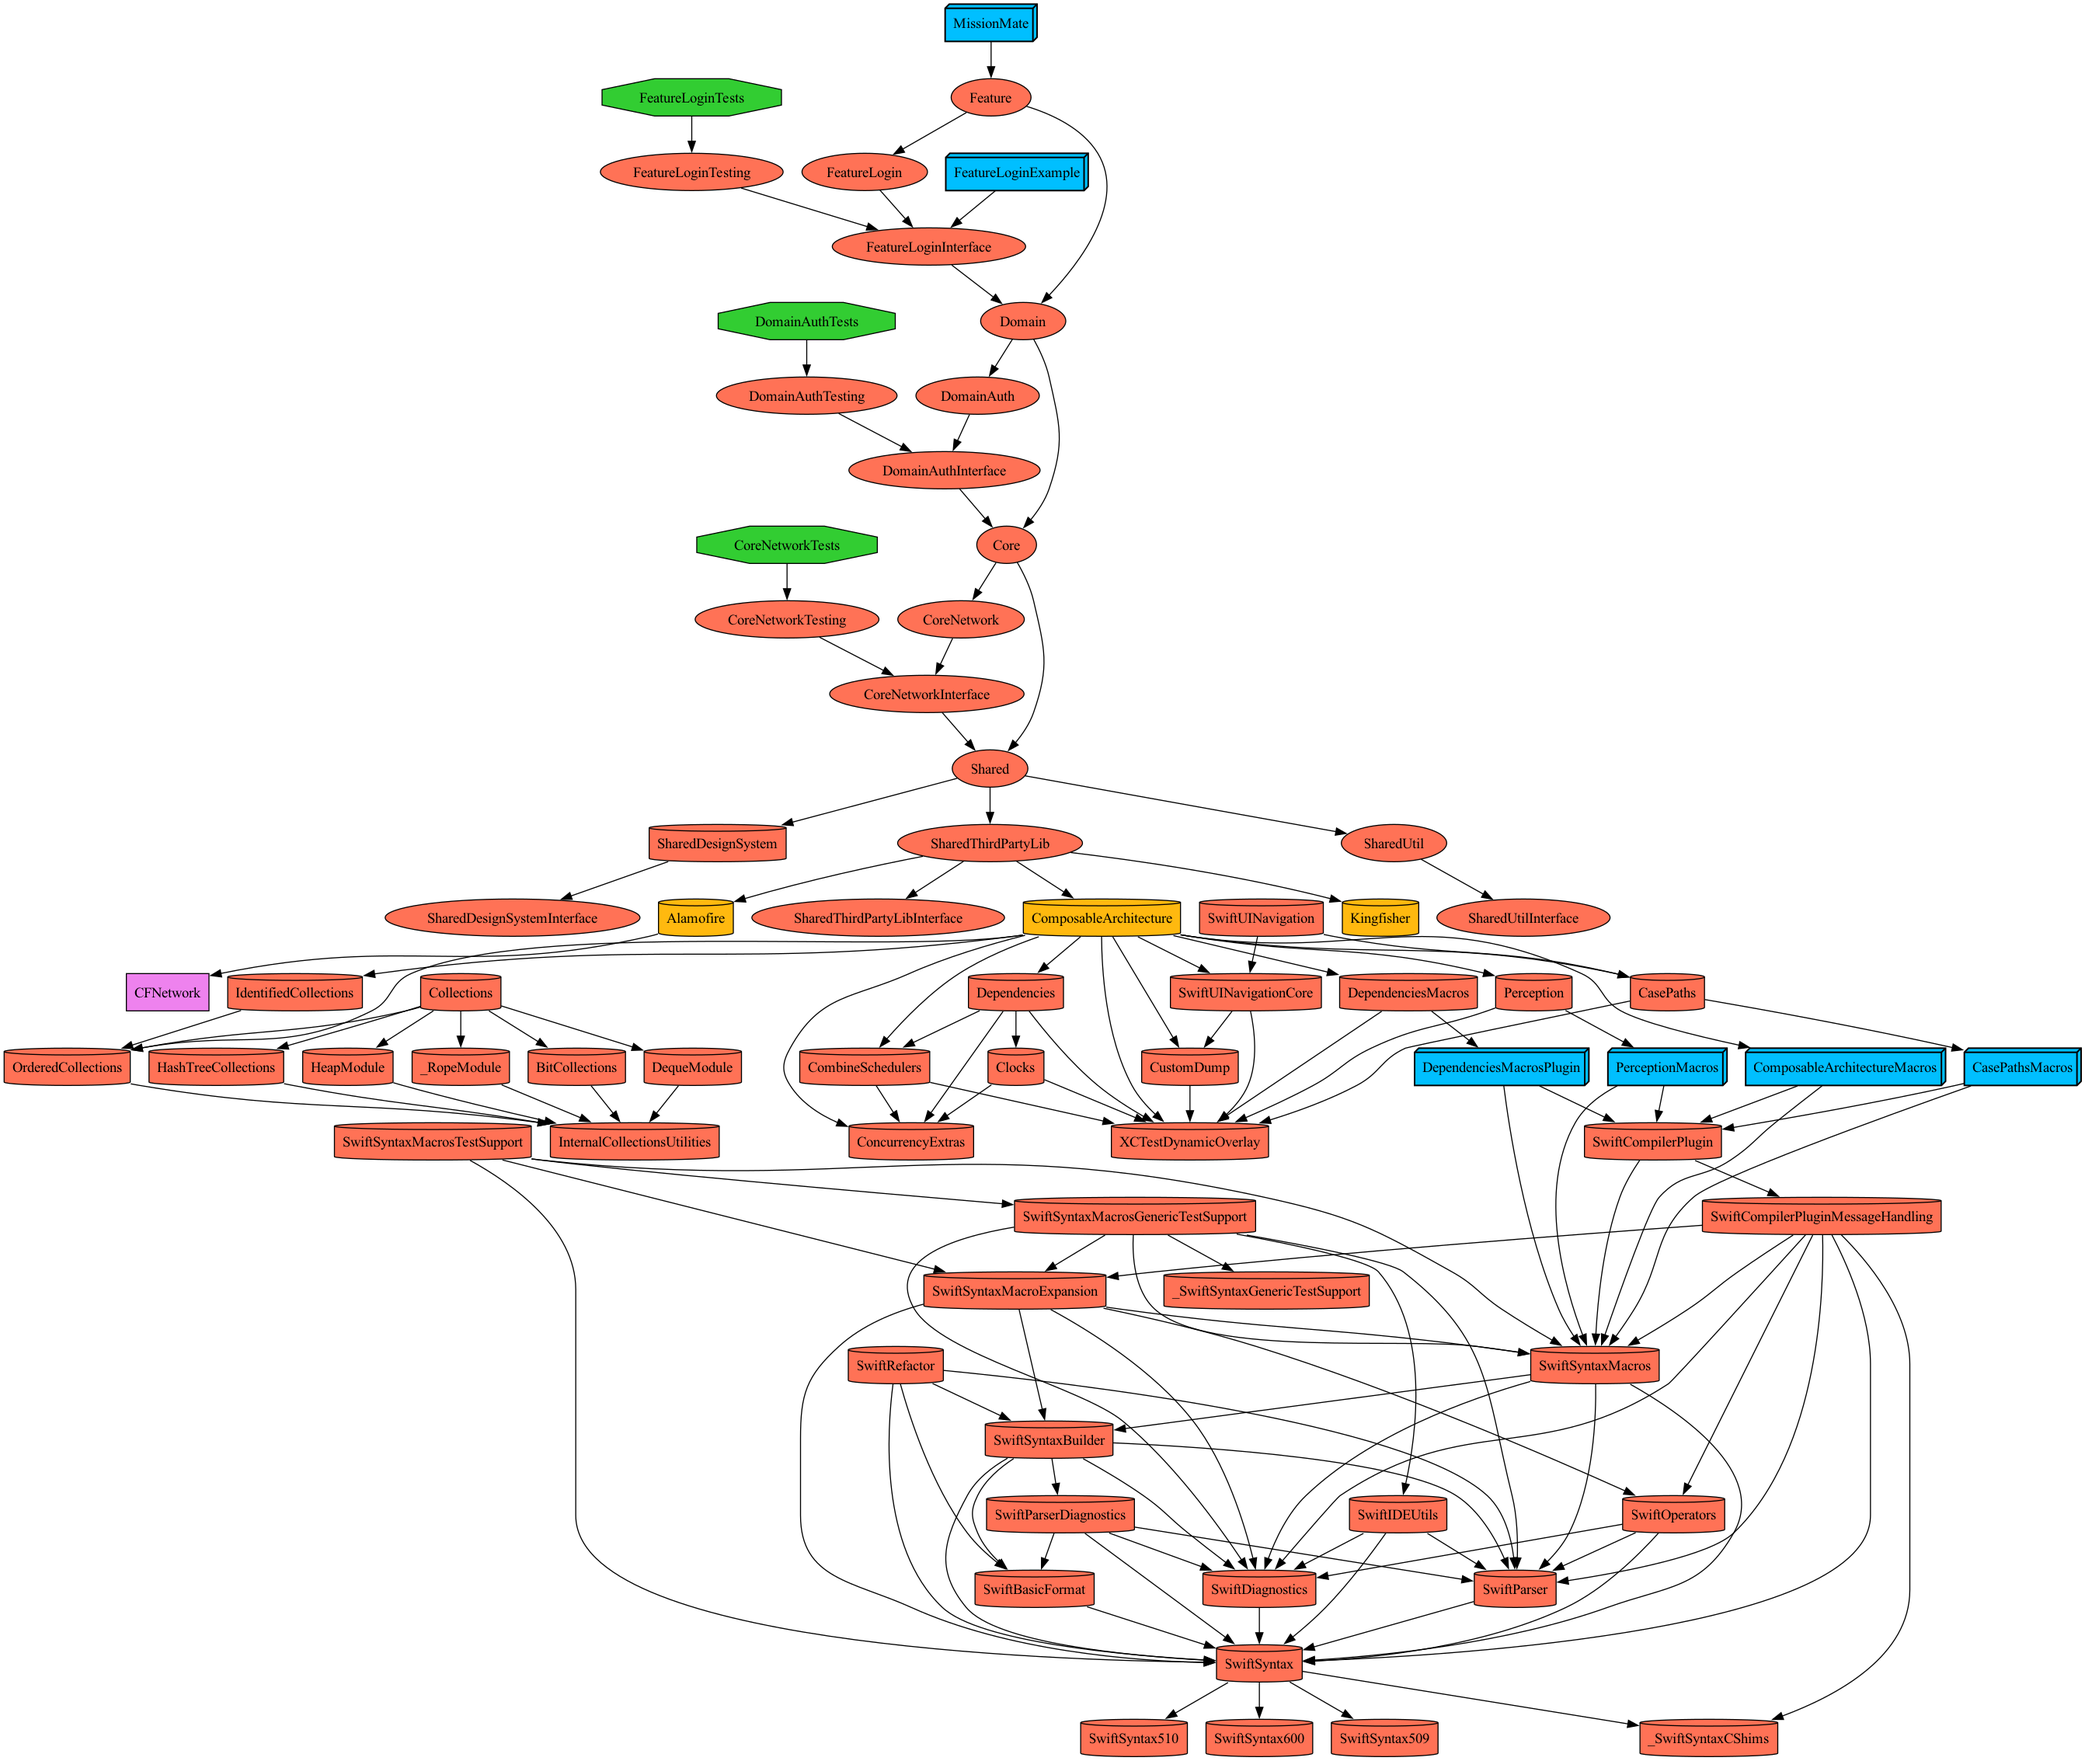
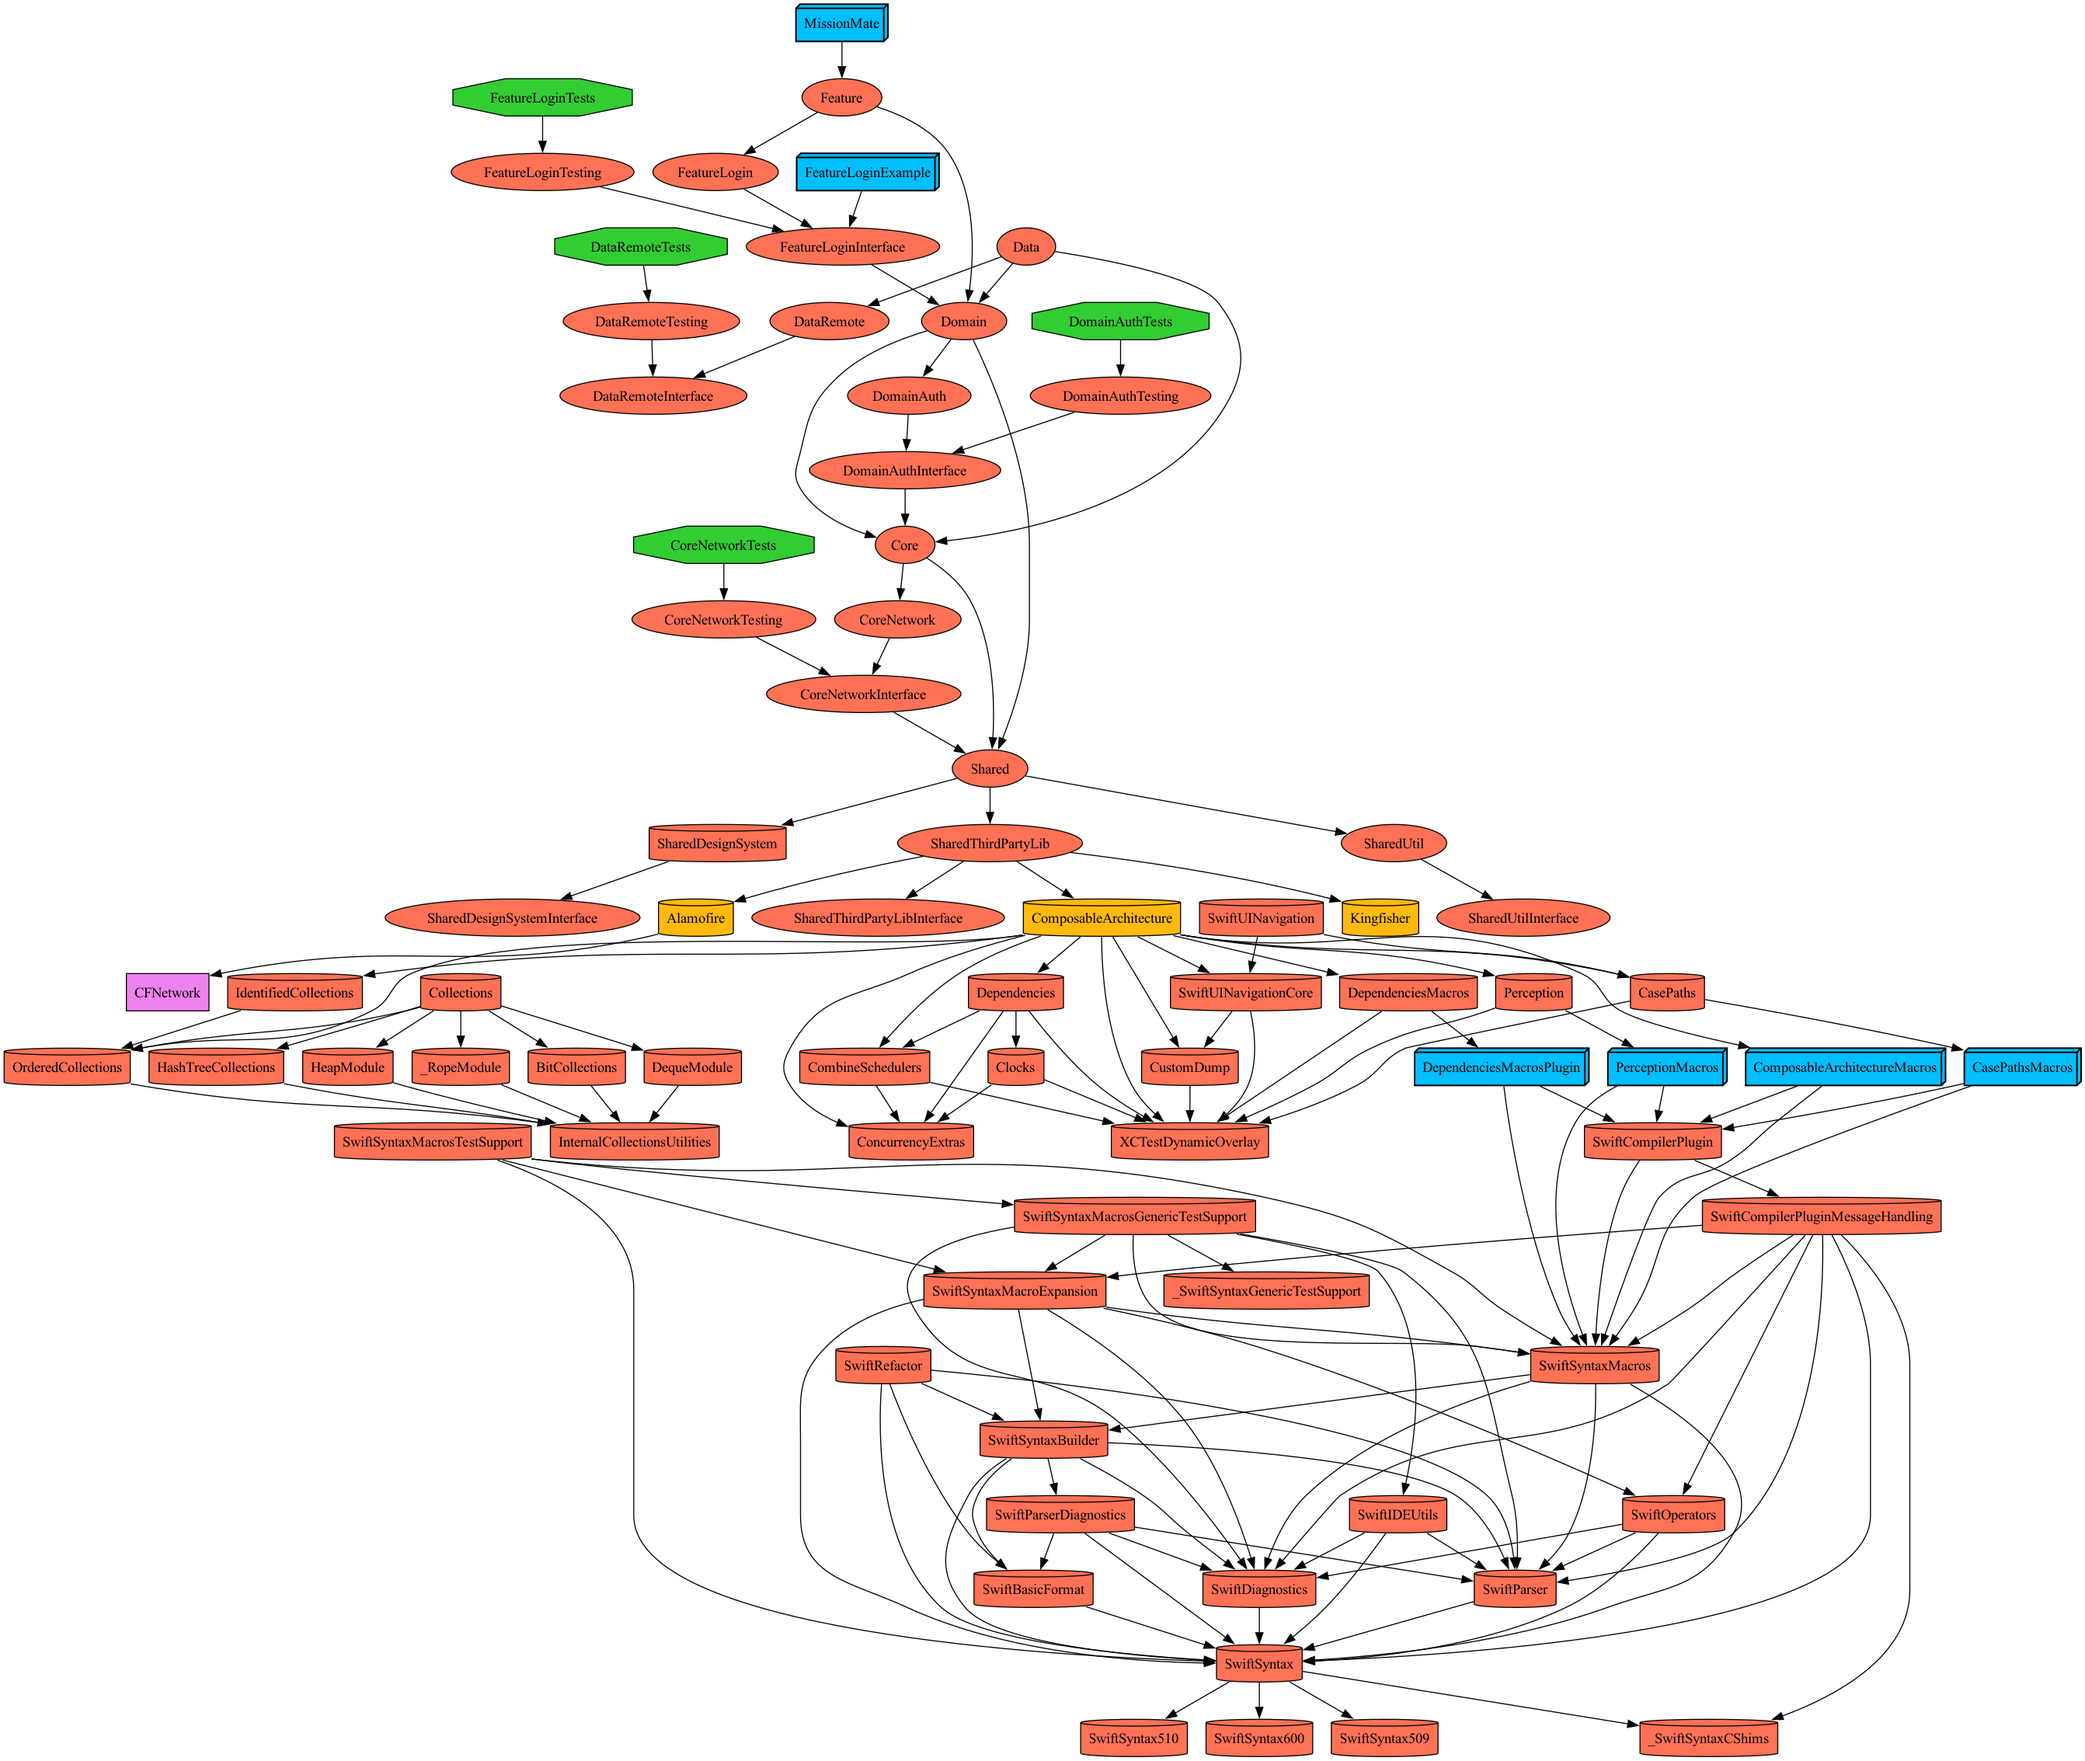
feat: Data 생성

Changed region(s): [[0.2165, 0.0, 0.5876, 0.4323], [0.402, 0.7411, 0.5876, 0.8337], [0.4329, 0.8955, 0.5257, 0.9572]]

diff --git a/Tuist/ProjectDescriptionHelpers/Target+Templates.swift b/Tuist/ProjectDescriptionHelpers/Target+Templates.swift
@@ -282,3 +282,46 @@ public extension Target {
         return make(factory: newFactory)
     }
 }
+
+// MARK: Target + Data
+
+public extension Target {
+    static func data(factory: TargetFactory) -> Self {
+        var newFactory = factory
+        newFactory.name = ModulePath.Data.name
+        
+        return make(factory: newFactory)
+    }
+    
+    static func data(implements module: ModulePath.Data, factory: TargetFactory) -> Self {
+        var newFactory = factory
+        newFactory.name = ModulePath.Data.name + module.rawValue
+        
+        return make(factory: newFactory)
+    }
+    
+    static func data(tests module: ModulePath.Data, factory: TargetFactory) -> Self {
+        var newFactory = factory
+        newFactory.name = ModulePath.Data.name + module.rawValue + "Tests"
+        newFactory.product = .unitTests
+        newFactory.sources = .tests
+        
+        return make(factory: newFactory)
+    }
+    
+    static func data(testing module: ModulePath.Data, factory: TargetFactory) -> Self {
+        var newFactory = factory
+        newFactory.name = ModulePath.Data.name + module.rawValue + "Testing"
+        newFactory.sources = .testing
+        
+        return make(factory: newFactory)
+    }
+    
+    static func data(interface module: ModulePath.Data, factory: TargetFactory) -> Self {
+        var newFactory = factory
+        newFactory.name = ModulePath.Data.name + module.rawValue + "Interface"
+        newFactory.sources = .interface
+        
+        return make(factory: newFactory)
+    }
+}

diff --git a/Plugins/DependencyPlugin/ProjectDescriptionHelpers/TargetDependency+Modules.swift b/Plugins/DependencyPlugin/ProjectDescriptionHelpers/TargetDependency+Modules.swift
@@ -101,3 +101,28 @@ public extension TargetDependency {
         return .project(target: ModulePath.Shared.name + module.rawValue + "Interface", path: .shared(implementation: module))
     }
 }
+
+// MARK: TargetDependency + Data
+
+public extension TargetDependency {
+    static var data: Self {
+        return .project(target: ModulePath.Data.name, path: .data)
+    }
+    
+    static func data(implements module: ModulePath.Data) -> Self {
+        return .project(target: ModulePath.Data.name + module.rawValue, path: .data(implementation: module))
+    }
+    
+    static func data(interface module: ModulePath.Data) -> Self {
+        return .project(target: ModulePath.Data.name + module.rawValue + "Interface", path: .data(implementation: module))
+    }
+    
+    static func data(tests module: ModulePath.Data) -> Self {
+        return .project(target: ModulePath.Data.name + module.rawValue + "Tests", path: .data(implementation: module))
+    }
+    
+    static func data(testing module: ModulePath.Data) -> Self {
+        return .project(target: ModulePath.Data.name + module.rawValue + "Testing", path: .data(implementation: module))
+    }
+}
+

diff --git a/Projects/Data/Remote/Project.swift b/Projects/Data/Remote/Project.swift
@@ -1,0 +1,39 @@
+import ProjectDescription
+import ProjectDescriptionHelpers
+import DependencyPlugin
+
+let project = Project.makeModule(
+    name: ModulePath.Data.name+ModulePath.Data.Remote.rawValue,
+    targets: [    
+        .data(
+            interface: .Remote,
+            factory: .init()
+        ),
+        .data(
+            implements: .Remote,
+            factory: .init(
+                dependencies: [
+                    .data(interface: .Remote)
+                ]
+            )
+        ),
+    
+        .data(
+            testing: .Remote,
+            factory: .init(
+                dependencies: [
+                    .data(interface: .Remote)
+                ]
+            )
+        ),
+        .data(
+            tests: .Remote,
+            factory: .init(
+                dependencies: [
+                    .data(testing: .Remote)
+                ]
+            )
+        ),
+
+    ]
+)

diff --git a/Scripts/GenerateModule.swift b/Scripts/GenerateModule.swift
@@ -6,6 +6,7 @@ enum LayerType: String {
     case domain = "Domain"
     case core = "Core"
     case shared = "Shared"
+    case data = "Data"
 }
 
 public enum MicroTargetType: String, CaseIterable {
@@ -191,7 +192,7 @@ func updateFileContent(
 
 // MARK: - Starting point
 
-print("Enter layer name\n(Feature | Domain | Core | Shared)", terminator: " : ")
+print("Enter layer name\n(Feature | Domain | Core | Shared | Data)", terminator: " : ")
 let layerInput = readLine()
 guard let layerInput, !layerInput.isEmpty, let layerUnwrapping = LayerType(rawValue: layerInput) else {
     print("Layer is empty or invalid")

diff --git a/Plugins/DependencyPlugin/ProjectDescriptionHelpers/Path+Modules.swift b/Plugins/DependencyPlugin/ProjectDescriptionHelpers/Path+Modules.swift
@@ -56,3 +56,16 @@ public extension ProjectDescription.Path {
         return .relativeToRoot("Projects/\(ModulePath.Shared.name)/\(module.rawValue)")
     }
 }
+
+
+// MARK: ProjectDescription.Path + Data
+
+public extension ProjectDescription.Path {
+    static var data: Self {
+        return .relativeToRoot("Projects/\(ModulePath.Data.name)")
+    }
+    
+    static func data(implementation module: ModulePath.Data) -> Self {
+        return .relativeToRoot("Projects/\(ModulePath.Data.name)/\(module.rawValue)")
+    }
+}

diff --git a/Projects/Data/Project.swift b/Projects/Data/Project.swift
@@ -1,0 +1,28 @@
+//
+//  Project.swift
+//  AppManifests
+//
+//  Created by Haeseok Lee on 7/27/24.
+//
+
+import ProjectDescription
+import ProjectDescriptionHelpers
+import DependencyPlugin
+
+let targets: [Target] = [
+    .data(
+        factory: .init(
+            dependencies: [
+                .data(implements: .Remote),
+                .domain,
+                .core,
+            ]
+        )
+    )
+]
+
+
+let project: Project = .makeModule(
+    name: "Data",
+    targets: targets
+)

diff --git a/Plugins/DependencyPlugin/ProjectDescriptionHelpers/Modules.swift b/Plugins/DependencyPlugin/ProjectDescriptionHelpers/Modules.swift
@@ -6,6 +6,7 @@ public enum ModulePath {
     case domain(Domain)
     case core(Core)
     case shared(Shared)
+    case data(Data)
 }
 
 // MARK: AppModule
@@ -55,5 +56,15 @@ public extension ModulePath {
         case ThirdPartyLib
         
         public static let name: String = "Shared"
+    }
+}
+
+// MARK: DataModule
+
+public extension ModulePath {
+    enum Data: String, CaseIterable {
+        case Remote
+        
+        public static let name: String = "Data"
     }
 }

diff --git a/Projects/Data/Remote/Tests/Sources/RemoteTest.swift b/Projects/Data/Remote/Tests/Sources/RemoteTest.swift
@@ -1,0 +1,11 @@
+import XCTest
+
+final class RemoteTests: XCTestCase {
+    override func setUpWithError() throws {}
+
+    override func tearDownWithError() throws {}
+
+    func testExample() {
+        XCTAssertEqual(1, 1)
+    }
+}

diff --git a/Projects/Data/Remote/Sources/Source.swift b/Projects/Data/Remote/Sources/Source.swift
@@ -1,0 +1,1 @@
+// This is for Tuist

diff --git a/Projects/Data/Remote/Testing/Sources/RemoteTesting.swift b/Projects/Data/Remote/Testing/Sources/RemoteTesting.swift
@@ -1,0 +1,1 @@
+// This is for Tuist
